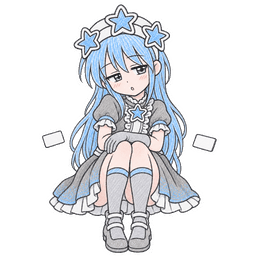
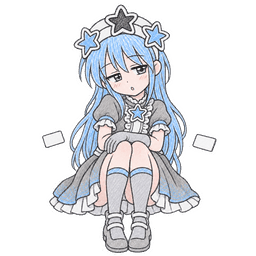
Export the revised neglected Anki-tan
Use canonical Linux exports for Aldana's approved image revision.
Keep the earlier desktop export under Anki-tan's licence in the archive.
The source was generated with OpenAI image_gen; its model identifier
was not exposed.

Assisted-by: Codex (GPT-6)

Changed region(s): [[0.4062, 0.0312, 0.5312, 0.125], [0.6875, 0.4375, 0.7188, 0.4688], [0.2812, 0.6562, 0.3125, 0.6875]]

diff --git a/static/anki-tan/archive/README.md b/static/anki-tan/archive/README.md
@@ -1,6 +1,6 @@
 # Preserved Anki-tan files
 
-Earlier approved generated poses and one generated desktop export.
+Earlier approved generated poses and superseded desktop exports.
 These files are retained byte for byte; active masters use the core pose names
 in the parent directory. The archived export is outside the add-on package.
 
@@ -14,6 +14,7 @@ Generated with OpenAI image_gen; its model identifier was not exposed.
 | sad-full.png | generated/sad-full.png | 35c1e4e32b31938b76d1c9b9f934c1bc3666f518eb5e9e34e9c1cfb3c77edd6e |
 | neglected-full.png | generated/neglected-full.png | 77d1ea121bd4eef6b9b1b5578d7c0651e781c77468587b4b0df10b00d1032e4a |
 | addon/anki_tan_sleeping.png | addon/art/anki_tan_sleeping.png | 384b17d8ba43944d734dda8071553669e6e1afaac43499bc9866eb60578c5769 |
+| addon/anki_tan_neglected-three-blue-stars.png | addon/art/anki_tan_neglected.png | d3a1ec4c5fa784358b04bd7b32a05a0e1040296dfec42a70df4c6eb83c5a4ab1 |
 
 The three master paths were relative to static/anki-tan/. The export path
 was relative to the repository. Published generated frozen files stay in place.

diff --git a/docs/branding/ankitan-full-2026-11/README.md b/docs/branding/ankitan-full-2026-11/README.md
@@ -52,8 +52,10 @@ changes here; the other two poses remain future work. The earlier neglected
 master stays byte for byte in `static/anki-tan/archive/neglected-full.png`.
 [The edit record](neglected-revision.json) contains the prompt, model
 disclosure, hashes and cleanup measurements. The new master was inspected
-at full size and 64 px on light and dark backgrounds. Its exports need a
-fresh canonical Linux run.
+at full size and 64 px on light and dark backgrounds. Canonical
+[Linux run 43904416492](https://github.com/AnkiQuest/AnkiQuest-Desktop/actions/runs/43904416492)
+generated its exports. The earlier desktop PNG is retained under the same
+licence in `static/anki-tan/archive/addon/` and registered as retired.
 
 The asleep export is now `anki_tan_asleep`. Its PNG is the byte-identical
 Linux export formerly named `anki_tan_sleeping`, which is preserved under
